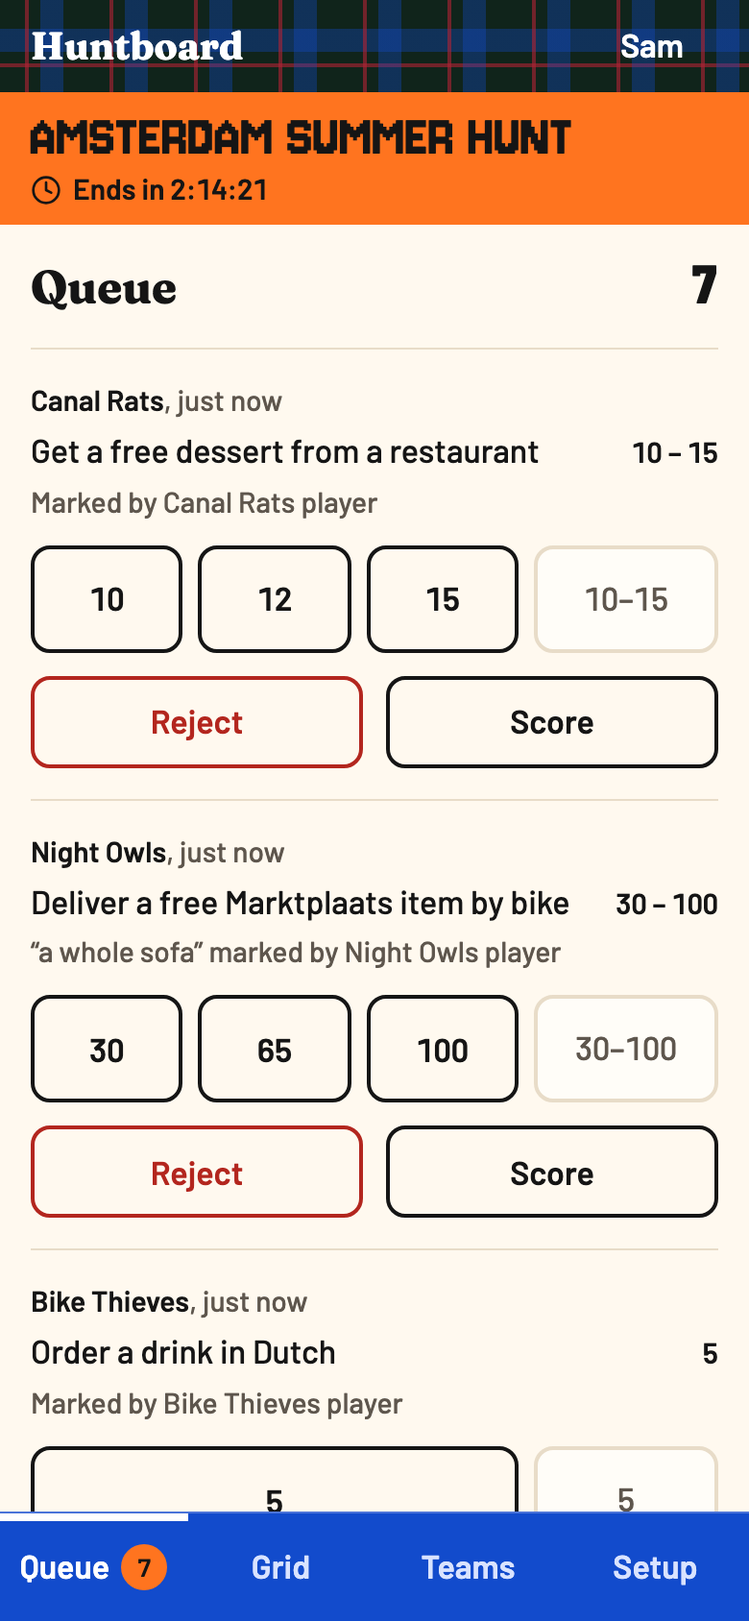
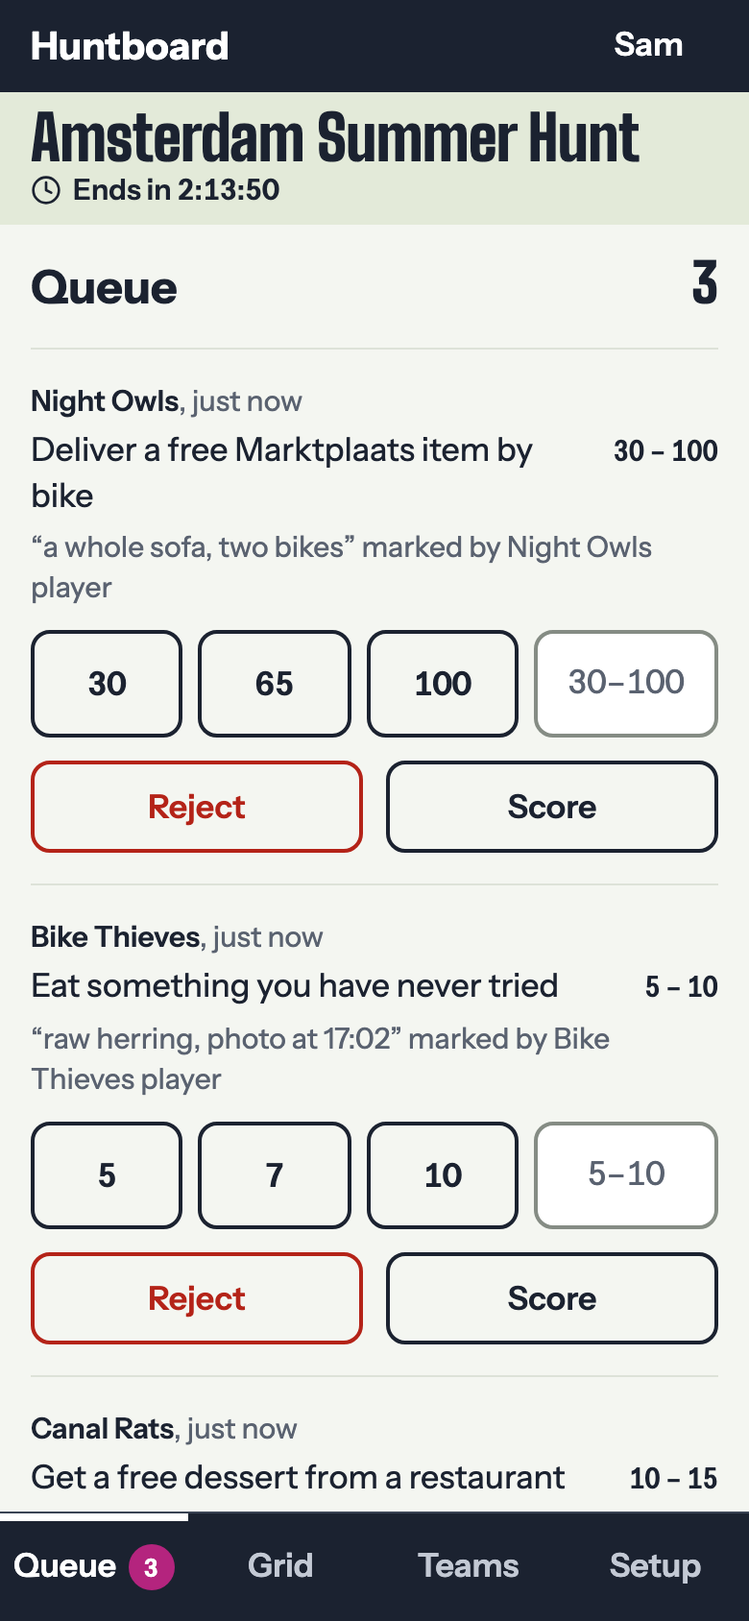
Bring the docs in line with the code and retake the README screenshots in the default Contour theme
README: Referrer-Policy same-origin and the other headers as sent, the email and testing modules in the code layout, the dev routes listed once, the load test's real checks, 40 players a day at half the limit, and three rehearsal games per run. DESIGN: Contour as the look outside a game, ranks at 28px, picture sizes stated once, and architecture and dev tooling moved to the README. Challenge format: how errors list, a lone # ending a section, and deletes taking media with them.

diff --git a/README.md b/README.md
@@ -8,9 +8,9 @@ Only game creators have accounts. Each team joins through its own secret link, s
 |---|---|
 | ![A team's page on a phone: its rank and total, and the challenge list with scored and pending claims](docs/screenshots/team.png) | ![The admin queue on a phone: pending claims with quick score, reject and custom points](docs/screenshots/admin-queue.png) |
 
-![The scoreboard on a big screen: four teams ranked by total points](docs/screenshots/scoreboard.png)
+![The scoreboard on a big screen: four teams ranked by total points, with a QR code to follow on a phone](docs/screenshots/scoreboard.png)
 
-> This ran a real game with 50 players fine, and should scale to thousands of concurrent players. To stay within the Cloudflare free tier, keep it to about 70 players a day in 5-hour games (see [Free-tier budget](#free-tier-budget)).
+> This ran a real game with 50 players fine, and should scale to thousands of concurrent players. To stay within the Cloudflare free tier with half the daily limit spare, keep it to about 40 players a day in 5-hour games (see [Free-tier budget](#free-tier-budget)).
 
 - [Design](DESIGN.md): visual and interaction rules for every screen
 - [Challenge format](docs/challenge-format.md): how organisers paste in their challenge list
@@ -21,14 +21,14 @@ Only game creators have accounts. Each team joins through its own secret link, s
 |---|---|---|
 | Creator | An account: their email address | Create games at `/new` and find them again on My games (`/games`). They land on the new game's admin page |
 | Admin | The admin link | Edit the game, challenges and teams, judge claims, add adjustments, record arrivals, rotate links |
-| Player | Their team's link | See all challenges, mark them done with an optional note and photo or video, undo a pending claim, rename the team |
-| Spectator | The scoreboard link | See team names, members and totals |
+| Player | Their team's link | See all challenges, mark them done with an optional note and photo or video, undo a pending claim, rename the team and set its picture |
+| Spectator | The scoreboard link | See team names, pictures, members and totals |
 
-A creator signs in with their email address. The email holds a link and a six-digit code: the link works in any browser, and the code works in the tab that asked for it, for phones that open links inside the mail app. The first sign-in for an address creates the account and asks only for a display name. A game made before accounts has no owner: a signed-in creator who opens its admin link adds it to their games from the Setup tab.
+A creator signs in with their email address. The email holds a link and a six-digit code: the link works in any browser, and the code works in the browser that asked for it, for phones that open links inside the mail app. The first sign-in for an address creates the account and asks only for a display name. A game made before accounts has no owner: a signed-in creator who opens its admin link adds it to their games from the Setup tab.
 
 Players and admins type a nickname on first visit. It is kept in the browser and only shows who marked or judged something. It is not an account.
 
-- **Links are the access model.** Each link holds a 128-bit random token. Anyone with a team link is on that team, and several judges share one admin link. A leaked link is rotated from Setup, and the old one stops working at once. Setup also shows each link as a QR code, and the big-screen scoreboard shows a QR code of its own link for spectators.
+- **Links are the access model.** Anyone with a team link is on that team, and several judges share one admin link. A leaked link is rotated from Setup, and the old one stops working at once. Setup also shows each link as a QR code, and the big-screen scoreboard shows a QR code of its own link for spectators.
 - **Claims take two steps.** A team marks a challenge done, and an admin scores it within its point range or rejects it with an optional reason. A team can undo a claim only while it is pending. An admin can also score a cell in the grid directly, for proof that arrives in person.
 - **A challenge scores at most once per team.** Rejected claims stay as history and the team can claim again. When two judges act on the same pending claim, the first wins and the second sees who judged it.
 - **Points are whole numbers inside the challenge's range.** Anything exceptional is an adjustment with a reason. A team's total is its scored claims plus adjustments, minus the late penalty.
@@ -36,17 +36,17 @@ Players and admins type a nickname on first visit. It is kept in the browser and
 - **Late penalty.** Whole minutes late, rounded down, times the penalty per minute, with no cap. A team that never arrives gets no automatic penalty; the admin adds an adjustment.
 - **Times are stored in UTC** and shown in each viewer's own time zone.
 - **Teams see every challenge but not each other's claims.** The scoreboard shows totals only.
-- **Proof is an optional photo or video on a claim.** The phone shrinks it when it can, uploads it to R2, and the judge sees it beside the claim. Proof can still go to the group chat or come in person, because a claim needs no media. The server checks each upload's size and type before the claim points at it. Each team may start 3 uploads for every challenge in the game, spent on any challenge, and 500 MB in all, and a game 3 GB, counting uploads that were never attached. Past a limit the team can still mark the challenge done without media. Media lives in its own R2 bucket under the game id and is deleted after the game: by "Delete all media" in Setup, by a reset, and by a 30-day rule on the bucket. Undoing a claim deletes its media; a rejected claim keeps it as history.
+- **Proof is an optional photo or video on a claim.** The phone shrinks it when it can, uploads it to R2, and the judge sees it beside the claim. Proof can still go to the group chat or come in person, because a claim needs no media. Each team may start 3 uploads for every challenge in the game, spent on any challenge, and 500 MB in all, and a game 3 GB, counting uploads that were never attached. Past a limit the team can still mark the challenge done without media. Media lives in its own R2 bucket under the game id and is deleted after the game: by "Delete all media" in Setup, by a reset, and by a 30-day rule on the bucket. Undoing a claim deletes its media; a rejected claim keeps it as history.
 - **Images.** Besides claim media, the app stores one image per game (an invitation, poster or map) and one picture per team, in R2.
 - **Themes live in code.** A game picks a registered theme in Setup; see [Themes](DESIGN.md#themes).
 
 ## Stack
 
-SvelteKit and TypeScript on Cloudflare Workers, D1 (SQLite) for data, R2 for images and claim media, pnpm. Tailwind and shadcn-svelte for components. Raw SQL through thin query modules. Everything fits the Cloudflare free tier.
+SvelteKit and TypeScript on Cloudflare Workers, D1 (SQLite) for data, R2 for images and claim media, pnpm. Tailwind and shadcn-svelte for components. Raw SQL through thin query modules. Everything but "Download all media" fits the Cloudflare free tier (see [Claim media](#claim-media)).
 
 ## Code layout
 
-Dependencies point one way: route, then action adapter or page builder, then HTTP guard, then use case, then database or storage, then domain. A module imports only from its own layer or the layers below it, and it may skip layers. Routes stay thin and hold no rules.
+Dependencies point one way: route, then action adapter or page builder, then HTTP guard, then use case, then database, storage or email, then domain. A module imports only from its own layer or the layers below it, and it may skip layers. Routes stay thin and hold no rules.
 
 Use cases, queries and the image store take the database or bucket as an argument. They never import SvelteKit or `cloudflare:workers`. Use cases read `FormData` themselves, because it is a web standard type and not a request.
 
@@ -65,9 +65,10 @@ Use cases, queries and the image store take the database or bucket as an argumen
 - `pages/`: page load builders.
 - `http/`: request guards, security headers, the D1 usage meter for the load test, the admin and team link guards that answer 404, and the session cookie, and the Resend sender.
 - `use-cases/`: what each form action does, tested without HTTP, and the form field readers they share.
-- `db/`: D1 queries, including the team link lookup.
+- `db/`: D1 queries, including the team link lookup. `db/testing/` holds the in-memory D1 the query tests run on, and its seed data.
 - `storage/`: the R2 image and media stores. They also build the responses for image and media requests, byte ranges and the media zip included. `media-upload.ts` signs uploads to R2, `dev-media-upload.ts` stands in for R2 under `pnpm dev`, and `r2-s3.ts` holds the account id and the R2 S3 origin that the CSP in `vite.config.ts` also reads.
-- `testing/`: an in-memory R2 bucket for tests, with `head` and ranged `get`.
+- `email/`: the sign-in email, HTML and plain text. Email clients ignore CSS variables, so it repeats the Contour colours: change them there with the theme.
+- `testing/`: an in-memory R2 bucket, with `head` and ranged `get`, and an in-memory cookie jar for tests.
 
 The bottom layer is `domain/`, `format/` and the theme registry in `themes/index.ts`. These import nothing from `src/lib/server`. Browser code imports only types from `src/lib/server`.
 
@@ -90,18 +91,19 @@ pnpm dev
 
 Without `RESEND_API_KEY` in `.env.dev`, the dev server sends no sign-in email and shows its link and code on the sign-in page. With the key, it sends real email (see [Sign-in email](#sign-in-email)). A deployment without the key refuses to sign anyone in.
 
-`/dev/sign-in?name=<name>&next=<path>` signs in as a test account with that name, with no credential. The rehearsal uses it. It answers 404 outside `pnpm dev`: production builds compile it out, so no setting can turn it on in a deployment.
+`pnpm dev` adds routes under `/dev/`, which a deployment never serves (see [Security](#security)):
 
-`/dev/design` shows every component in every theme: `/dev/design?theme=<id>&mode=dark`. It answers 404 outside `pnpm dev`.
+- `/dev/sign-in?name=<name>&next=<path>` signs in as a test account with that name, with no credential. The rehearsal uses it.
+- `/dev/design?theme=<id>&mode=dark` shows every component in any theme and mode it supports.
+- `/dev/email` shows the sign-in email as its HTML part renders, with an example link and code.
+- `/dev/media/...` takes claim media uploads while `R2_ACCESS_KEY_ID` and `R2_SECRET_ACCESS_KEY` are blank, since `pnpm dev` has no R2 S3 endpoint. It stores them in the local `MEDIA` bucket.
 
-`/dev/email` shows the sign-in email as its HTML part renders, with an example link and code. It answers 404 outside `pnpm dev`.
-
-`pnpm dev` has no R2 S3 endpoint for claim media. While `R2_ACCESS_KEY_ID` and `R2_SECRET_ACCESS_KEY` are blank, it signs uploads to `/dev/media/...` instead, which stores them in the local `MEDIA` bucket and also answers 404 outside `pnpm dev`. A deployment with the secrets blank refuses uploads.
+A theme's `touch-icon.png` and `share.png` are rendered, not drawn: run `node scripts/theme-images.ts` after changing a theme's colours or its card in that script.
 
 ## Testing
 
 ```sh
-pnpm test    # Vitest: domain, use cases, page builders and D1 queries
+pnpm test    # Vitest: every *.test.ts under src/, in Node
 pnpm check   # svelte-check and the load test's type check
 pnpm lint    # Prettier and ESLint
 ```
@@ -123,17 +125,17 @@ A deployment has no test sign-in. To rehearse against one, sign in there in a br
 HUNTBOARD_URL=https://huntboard.example.com HUNTBOARD_SESSION=... pnpm rehearsal
 ```
 
-Each run creates a new game named `Rehearsal ...`. Delete them before a real event:
+Each run creates three games named `Rehearsal ...`, and one account can create 10 games a day. Delete them before a real event:
 
 ```sh
 pnpm exec wrangler d1 execute huntboard --remote --command "DELETE FROM game WHERE name LIKE 'Rehearsal %'"
 ```
 
-Their images and claim media stay in R2 under `<game id>/`, in the images and media buckets. Reset a rehearsal game from its Setup tab before deleting it to remove them too. The 30-day rule on the media bucket catches any media left behind.
+Their images and claim media stay in R2 under `<game id>/`, in the images and media buckets. Reset a rehearsal game from its Setup tab before deleting it to remove them too.
 
 ### Load test
 
-`pnpm loadtest` plays one full game over HTTP against a local production build: 7 teams of 6 players, 3 judges and a big screen over 5 hours, with an opening rush and a finale where 40 phones load the scoreboard. It reports Worker requests and D1 rows read per request and per game, compares them with the free plan's daily limits, and checks that the final scoreboard matches the points the judges gave.
+`pnpm loadtest` plays one full game over HTTP against a local production build: 7 teams of 6 players, 3 judges and a big screen over 5 hours, with an opening rush and a finale where 40 phones load the scoreboard. It reports Worker requests and D1 rows read and written per request and per game, and compares them with half the free plan's daily limits. It also fails on a request that makes more than 50 D1 calls or a p95 latency over 1 second, and checks that the final scoreboard matches the points the judges gave.
 
 ```sh
 pnpm loadtest              # 5 game hours at 30x: about 12 minutes
@@ -144,11 +146,11 @@ It serves the build with `wrangler dev` on port 4174 and keeps its own D1 state 
 
 ## Free-tier budget
 
-Pages poll: clients reload their data every 60 seconds, pause while the tab is hidden, and refresh at once on focus and after their own actions. `POLL_INTERVAL_MS` in `src/lib/client/live-updates.ts` holds the interval. Before each poll the client fetches `/reachable.txt`, a static file that never runs the Worker. When it fails, the poll is skipped and the page shows an offline notice instead of an error page. When the page data request fails anyway, for a server error, the zone's rate limit or a web page where the data should be, or takes over 10 seconds, the poll is dropped: the page keeps what it showed and its open sheets, says it did not update, and the next poll tries again.
+Pages poll: clients reload their data every 60 seconds, pause while the tab is hidden, and refresh at once on focus and after their own actions. `POLL_INTERVAL_MS` in `src/lib/client/live-updates.ts` holds the interval. Before each poll the client fetches `/reachable.txt`, a static file that never runs the Worker. When it fails, the poll is skipped. When the page data request fails anyway, for a server error, the zone's rate limit or a web page where the data should be, or takes over 10 seconds, the poll is dropped and the next poll tries again. In both cases the page keeps what it showed (see [Offline and errors](DESIGN.md#offline-and-errors)).
 
 D1 rows read decide the interval, not Worker requests. The free plan allows 5 million rows read and 100,000 Worker requests per day, reset at 00:00 UTC. Past either limit every request fails until the reset, which ends a running game, so the budget keeps about half the rows limit spare.
 
-The model game: 40 players in 7 teams, 3 admins, one big screen, 5 hours. Phones lock and players switch apps, so a team page is visible about one minute in five. About 180 claims and 180 judgements.
+The model game, which the load test plays: 42 players in 7 teams, 3 admins, one big screen, 5 hours. Phones lock and players switch apps, so a team page is visible about one minute in five. About 180 claims and 180 judgements.
 
 | Interval | Worker requests | D1 rows read | Share of D1 limit |
 |---|---|---|---|
@@ -246,7 +248,7 @@ A game of about 180 claims stores about 1 GB of media. It is deleted after the g
 - **Accounts.** `/new` and My games need a session. A session is a 128-bit random token in an `HttpOnly`, `SameSite=Lax` cookie, `Secure` outside localhost. The database stores only its SHA-256 hash. It lasts 30 days, and a session used in its second half is renewed. Sign-out deletes it. Owning a game only lists it on My games; access to a game is still its links.
 - **Sign-in.** An email holds a 128-bit link token and a six-digit code. The database stores only their SHA-256 hashes, the code's salted with its request ID. Both expire after 15 minutes and sign in once. The link opens a page with a button, because mail scanners open links and must not use them up. The code works only with a request ID in the asking browser's `HttpOnly` cookie, and five wrong codes end the request. The cookie keeps the browser's live requests for one address, because emails arrive late and a user may type the code from an earlier one. A wrong code spends an attempt on each of them. Each address can have at most three unused sign-in emails from the last 15 minutes; a used one stops counting, since only the inbox owner can use it. New and existing addresses get the same email, so the form does not reveal who has an account. There are no passwords, because hashing them does not fit the Workers free plan's 10 ms CPU limit.
 - **Test sign-in.** `/dev/sign-in` exists only in `pnpm dev`. Production builds compile it out. Outside `pnpm dev`, every `/dev/` path answers 404 to every method, so none shows that it exists.
-- **Headers.** SvelteKit sets an enforced CSP with per-request script nonces. `src/hooks.server.ts` adds `nosniff`, `X-Frame-Options: DENY`, `Referrer-Policy: no-referrer`, `Permissions-Policy`, HSTS and `X-Robots-Tag: noindex` to every Worker response, and `Cache-Control: no-store` to secret-link pages. `_headers` applies the static ones to assets. `robots.txt` disallows everything.
+- **Headers.** SvelteKit sets an enforced CSP with per-request script nonces. `securityHeaders` in `src/lib/server/http/request-guard.ts` adds `nosniff`, `X-Frame-Options: DENY`, `Referrer-Policy: same-origin`, `Cross-Origin-Opener-Policy: same-origin`, `Permissions-Policy`, HSTS over HTTPS and `X-Robots-Tag: noindex, nofollow` to every routed response, and `Cache-Control: no-store` to secret-link pages, sign-in, My games and `/new`. `same-origin` and not `no-referrer`, because with `no-referrer` Chrome sends `Origin: null` on a plain form post and SvelteKit's CSRF check refuses it. `_headers` applies the static ones to assets. `robots.txt` disallows everything.
 - **Requests.** Plain HTTP redirects to HTTPS. Bodies without `Content-Length` get 411 and bodies over 2 MiB get 413, before any parsing. Uploaded images are checked for size, declared type and magic bytes.
 - **Claim media.** Phones upload straight to R2, never through the Worker. The team action `mediaUpload` checks the game window, the declared type and the size limit, then records the key for the team in `media_upload` and signs one PUT URL for 15 minutes. That record enforces the per-team and per-game limits, so a team link cannot fill the bucket, and "Delete all media" clears it with the media. It covers one new random key under the game id, and its signature covers the content type and length, so R2 refuses any other file. The R2 API token behind it can only read and write the media bucket. Marking done with media checks the object again in the bucket: the key was signed for this team, the size is within the limit, the stored type matches the key, and the first bytes are a JPEG, WebP, MP4, QuickTime or WebM file. A failed check stores no claim.
 - **Media keys are secrets.** `/media/<game id>/claims/<file>` serves an object without reading D1, like `/images/`, so the 128-bit random name is the only guard. Only the claiming team and the admins receive it.

diff --git a/DESIGN.md b/DESIGN.md
@@ -8,7 +8,7 @@ Orienteering marks each checkpoint with a square flag split diagonally into oran
 
 The palette is signal orange on a cool white, with deep navy for text.
 
-This direction is the theme `flag`. A game can pick another theme for all its pages; see [Themes](#themes). The rest of this document describes `flag`.
+This direction is the theme `flag`, the base layer every other theme falls back to. New games and pages without a game wear [Contour](#contour), and a game can pick any theme for all its pages; see [Themes](#themes). The rest of this document describes `flag` unless a theme or layout says otherwise.
 
 ## Color
 
@@ -68,7 +68,8 @@ One family: **Archivo** (variable, Google Fonts), using its width axis as the ac
 
 | Role | Setting | Size (phone) |
 |---|---|---|
-| Score totals, ranks (`type-score`, `type-rank`) | Archivo Expanded (`wdth` 125), weight 800, tabular | 40px, scaling with `clamp()` up to 8vw on the big screen |
+| Score totals (`type-score`) | Archivo Expanded (`wdth` 125), weight 800, tabular | 40px, scaling on the big screen (see [Scoreboard](#scoreboard)) |
+| Ranks (`type-rank`) | Archivo Expanded, weight 800, tabular | 28px |
 | Screen title | Archivo Expanded, weight 700 | 24px |
 | Section heading | Archivo, weight 700 | 17px |
 | Body, challenge titles | Archivo, weight 450 | 17px, line-height 1.4 |
@@ -161,9 +162,8 @@ The grid has team names as columns and a sticky first column of challenge titles
 
 - The grid is the one admin screen wider than the content column. It scrolls inside its own box, so the header row and the challenge column both stay in view. The box ends above the tab bar. On a short landscape screen it takes most of the height and the page scrolls the header away. On a wide screen the team columns grow to fit their names.
 - The sheet says what a tap does in each state: score an open or rejected cell without a team claim, judge a pending one, fix or reject a scored one.
-- A conflict shows under the refreshed state of the cell, the same way the team sheet does.
 - The sheet shows the claim's photo or video under the claim's details, the same way the queue does.
-- A tap acts on the state the sheet showed when it opened or after its last answer. If a poll changed the cell in between, the tap gets the conflict message instead of quietly doing something else.
+- A tap acts on the state the sheet showed when it opened or after its last answer. If a poll changed the cell in between, the tap gets the conflict message under the refreshed state of the cell instead of quietly doing something else.
 
 The Teams tab lists teams in their setup order, not by rank, so a row does not move while the judge taps it. Here and in the Setup team list, names and members each take up to two lines, so teams that share a long prefix still read apart at 360px. Each team shows its rank and total, then the breakdown: scored claims, adjustments, and the late penalty with its minutes.
 
@@ -195,24 +195,23 @@ These pages belong to no game, so they wear the default theme.
 - After sending, the page becomes "Check your email": the address, a "Code" field and "Sign in", then "Use a different email" as a ghost button. A reload keeps this step while the code still works.
 - A new address learns it is new only after a right code or from the link's page. Then "Your name" appears above the button, and the link's button reads "Create account".
 - The link opens a page that names the address and waits for "Sign in". An expired link says so and offers "Ask for a new email".
-- The dev server sends no email. It shows the link and code in a dashed box under the address instead.
-- The email wears the default theme, light and dark, in a 560px card: the app bar with "Huntboard", the banner with "Sign in" in `--font-banner` after a magenta control ring and the address under it, a "Sign in" button in `--action`, then the code in `--font-score` in a bordered box. How long both work and the link spelled out close it in `--muted`. A plain-text part carries the same words. Email clients ignore CSS variables, so `src/lib/server/email/sign-in-email.ts` repeats the Contour colours: change them there with the theme. `/dev/email` previews it.
+- Without an email key, the dev server shows the link and code in a dashed box under the address.
+- The email wears Contour, light and dark, in a 560px card: the app bar with "Huntboard", the banner with "Sign in" in `--font-banner` after a magenta control ring and the address under it, a "Sign in" button in `--action`, then the code in `--font-score` in a bordered box. How long both work and the link spelled out close it in `--muted`. A plain-text part carries the same words.
 - My games: "New game" as the primary button, then the games, newest first, each opening its admin link. "Sign out" comes last, as a ghost button.
 - Sign-in errors show in place, above the button they are about.
 
 ### Scoreboard
 
-A ranked list. Rank and total in display type, the total in `--score`, team name in body weight. On screens wider than 1024px the same page becomes the big-screen view: totals scale up, the list centres vertically, and a QR code of the scoreboard link sits to the right of the list.
+A ranked list. Rank and total in display type, the total in `--score`, team name in body weight on a phone and semibold on the big screen. On screens wider than 1024px the same page becomes the big-screen view: totals scale up, the list centres vertically, and a QR code of the scoreboard link sits to the right of the list.
 
-- The QR code is `min(26dvh, 18vw)` wide, with "Scan to follow on your phone" under it in `--muted`. It encodes only the scoreboard link, built from the page's own token. Phones already have the link, so they never show it.
-
+- The QR code is `min(26dvh, 18vw)` wide, with "Scan to follow on your phone" under it in `--muted`. Phones already have the link, so they never show it.
 - Under the game name, one status line: "Starts in 0:42:10", "Ends in 1:42:10" or "Ended at 21:00". With a day or more to go, the days come first: "Starts in 3 days 1:42:10". The scoreboard keeps updating after the end, because judging goes on at the meeting point.
 - Tied teams show the same rank and keep their setup order.
 - On the big screen every size follows one total size: 55% of the viewport height shared by the teams, counting at least 3, between 40px and 8vw. The 8vw cap keeps a name in view beside a four-digit total on a narrow or portrait screen, and the 3-team floor stops one or two teams from filling the screen with digits. Ranks are 0.6 of it, names 0.45, the title 0.45, the status line and the empty message 0.25, and members 0.3 but never under 2% of the screen height, so 4 teams and 7 teams both fill a 1080px screen. Names keep one line there.
 - On a phone a long team name wraps to two lines rather than shrinking to a few characters beside a large total.
 - With no teams yet: "No teams yet. They show up here once the organiser adds them."
 - With a game image, the event header from the team page sits under the status line. On the big screen its thumbnail is 0.7 of the total size and its label 0.25, so it never pushes the list off a 800px screen.
-- Team pictures sit between rank and name: 40px on a phone, 0.9 of the total size on the big screen.
+- Team pictures sit between rank and name.
 
 ## Components
 
@@ -227,17 +226,17 @@ Built on shadcn-svelte where it saves time (Button, Input, Label, Sheet), restyl
 
 ## Themes
 
-The admin picks a theme for the game in Setup. It changes every page of that game: the team page, the scoreboard and the admin pages, so a `flag` game keeps a `flag` admin. `DEFAULT_THEME`, [Contour](#contour), is the theme a game made at `/new` starts in, and the one pages without a game wear: the home page, `/new`, error pages. An id that is no longer registered also reads as `DEFAULT_THEME`.
+The admin picks a theme for the game in Setup. It changes every page of that game: the team page, the scoreboard and the admin pages, so a `flag` game keeps a `flag` admin. `DEFAULT_THEME`, [Contour](#contour), is the theme a game made at `/new` starts in, and the one every page outside a game wears: the home page, `/new`, sign-in, My games and error pages.
 
 A theme is two things:
 
 - An entry in `src/lib/themes/index.ts`: id, name, the modes it supports with the browser chrome colour of each (the colour at the top of the page: `--paper` in the `plain` layout, `--app-bar-base` in the `event` layout), the font stylesheets it loads, its [layout](#layouts), and optionally a `wordmark`: an image and its alt text that the event app bar shows in place of "Huntboard".
 - A CSS file next to it, imported by `app.css`, that sets tokens on `:root[data-game-theme='<id>']`. `flag` sits on plain `:root`, so a token a theme leaves out falls back to `flag`.
-- Images in `static/themes/<id>/`: `icon.svg` for the browser tab, and `touch-icon.png` and `share.png`, the 1200 × 630 link preview that chats like WhatsApp show. Draw `icon.svg` by hand. `node scripts/theme-images.ts` renders the two PNGs, the preview from a card in that script. A theme's wordmark lives here too.
+- Images in `static/themes/<id>/`: `icon.svg` for the browser tab, and `touch-icon.png` and `share.png`, the 1200 × 630 link preview that chats like WhatsApp show. Draw `icon.svg` by hand. The two PNGs are rendered by a script (see the [README](README.md#local-development)). A theme's wordmark lives here too.
 
 The server writes `data-game-theme` on `<html>`, so the first paint and the sheets portalled to `<body>` already wear the theme. A stored id that is no longer registered shows `DEFAULT_THEME`.
 
-A theme supports light, dark or both. With one mode, the server also writes `data-theme` and that mode wins over the phone setting. With both, it follows the phone, and the dark set is declared once inside `@variant dark`. `/dev/design?theme=<id>&mode=dark` previews any theme in any mode it supports.
+A theme supports light, dark or both. With one mode, the server also writes `data-theme` and that mode wins over the phone setting. With both, it follows the phone, and the dark set is declared once inside `@variant dark`. `/dev/design` previews any theme in any mode it supports.
 
 ### Token roles
 
@@ -282,10 +281,10 @@ Inside the strip and the admin tab bar, the strip roles stand in for `--surface`
 A theme's registry entry names its layout. Structure changes only through it; the theme CSS changes only tokens. Components read it with `pageLayout()` from `src/lib/themes/page-layout.ts`. Pages without a game get the layout of `DEFAULT_THEME`.
 
 - `plain`: the layout described above. `flag` uses it.
-- `event`: a slim app bar ("Huntboard" and the nickname button) and an event banner replace the game name line and the game image header. The wordmark links to the home page, except on the home page itself. The banner shows the game name in `--font-banner`, large enough to fill the banner (17vw up to 80px, 40px past 16 characters and 30px past 40 so long names wrap into a few lines), on at most three lines with the rest cut by an ellipsis and words hyphenated in the page language, the start day in the viewer's locale once the game has a start time, the status line, and with a game image its thumbnail and "View <label>", which open the same sheet as the event header. Only the button is a control for keyboards and screen readers; the thumbnail is a larger target for thumbs. On the team page the strip shows the rank, a divider, the team name in 20px `--font-display` on up to two lines with the countdown under it, the total and the chevron; members show in the expanded list. The countdown is hidden from the strip button's name, which would otherwise change every second, and repeated outside it for screen readers. The focus ring sits inside the strip. Section headings are 26px `--font-display` with `--section-ornament` before and a 2px `--section-rule` border to the right edge. Rows lose the top border and add the description clamped to two lines, a 15px "points" unit under a 17px range with thin spaces around the dash, and a chevron. The scoreboard puts a "Leaderboard" heading over a 2px `--score` rule, team names in semibold, team pictures at 48px, and a 15px "points" under each total, which the big screen scales like the members line. On the big screen the app bar and banner sizes follow the screen height instead of the total size, and the banner puts the game name in one wide row of at most two lines, its last word included, with the details beside it, and the teams share 34% of the height instead of 55%, so 4 to 7 teams still fit 1280 × 800 and 1920 × 1080.
+- `event`: a slim app bar (the wordmark, and the nickname button on team and admin pages) and an event banner replace the game name line and the game image header. The wordmark links to the home page, except on the home page itself. The banner shows the game name in `--font-banner`, large enough to fill the banner (`--banner-title-size`, by default 17vw up to 80px, 40px past 16 characters and 30px past 40 so long names wrap into a few lines), on at most three lines with the rest cut by an ellipsis and words hyphenated in the page language, the start day in the viewer's locale once the game has a start time, the status line, and with a game image its thumbnail and "View <label>", which open the same sheet as the event header. Only the button is a control for keyboards and screen readers; the thumbnail is a larger target for thumbs. On the team page the strip shows the rank, a divider, the team name in 20px `--font-display` on up to two lines with the countdown under it, the total and the chevron; members show in the expanded list. The countdown is hidden from the strip button's name, which would otherwise change every second, and repeated outside it for screen readers. The focus ring sits inside the strip. Section headings take `--section-heading-font` with `--section-ornament` and a `--section-rule` border to the right edge. Rows lose the top border and add the description clamped to two lines, a 15px "points" unit under a 17px range with thin spaces around the dash, and a chevron. The scoreboard puts a "Leaderboard" heading over a 2px `--score` rule, team names in semibold, team pictures at 48px, and a 15px "points" under each total, which the big screen scales like the members line. On the big screen the app bar and banner sizes follow the screen height instead of the total size, and the banner puts the game name in one wide row of at most two lines, its last word included, with the details beside it, and the teams share 34% of the height instead of 55%, so 4 to 7 teams still fit 1280 × 800 and 1920 × 1080.
   - Admin pages are worked fast on a phone, so they keep their density and touch sizes and skip the big banner. Under the app bar a one-row banner shows the game name in 32px `--font-banner`, on at most two lines, and the status line. Both banners keep the full name in the title attribute and the text, so screen readers read all of it. The tab bar marks the current tab with a 4px bar in the strip's text colour along its top, and its focus ring sits inside the bar.
-  - `/new` has no game, so its banner holds the page title in `--font-banner` and one line under it, with `--banner-art` beside. Error pages add only the app bar.
-  - The home page is the landing page for organisers, built from the theme's tokens in a 1120px column: a hero in the banner colours with the title in `--font-banner` and an example leaderboard over contour lines, where one claim is scored once on load and its team climbs to first; "How a hunt runs" as an orienteering course in `--marker` (start triangle, numbered control circles, finish double circle, joined by the course line, down on a phone and across from 1024px); four facts; and a closing band in the app bar colours. "Create a hunt" goes to `/new`, which asks for sign-in first. With reduced motion the claim is scored with no movement.
+  - Pages without a game (`/new`, sign-in and My games) put the page title in the banner in `--font-banner` with one line under it, and `--banner-art` beside. Error pages add only the app bar.
+  - The home page is the landing page for organisers, built from the theme's tokens in a 1120px column: an app bar with "Sign in"; a hero in the banner colours with the title in `--font-banner` and an example leaderboard over contour lines, where one claim is scored once on load and its team climbs to first; "How a hunt runs" as an orienteering course in `--marker` (start triangle, numbered control circles, finish double circle, joined by the course line, down on a phone and across from 1024px); four facts; and a closing band in the app bar colours. "Create a hunt" goes to `/new`, which asks for sign-in first, and "Open my hunts" beside it goes to My games. With reduced motion the claim is scored with no movement.
 
 ### What a theme may change
 
@@ -373,7 +372,7 @@ Fonts: Georgia for `--font-display` and `--font-banner`, so the game name, ranks
 A team picture is a circle, so it never reads as a marker. Without a picture a team shows its initial in `--muted` on `--paper`, inside a `--line` border.
 
 - Pictures and initials appear only once at least one team in the game has a picture. A game without pictures looks exactly as before.
-- Sizes are fixed per place, so a loading picture never changes a row height or the reorder animation: 40px in the strip, 32px in the expanded list and the Setup team list, 40px on the scoreboard.
+- Sizes are fixed per place, so a loading picture never changes a row height or the reorder animation: 40px in the strip, 32px in the expanded list and the Setup team list, 40px on the scoreboard (48px in the `event` layout) and 0.9 of the total size on the big screen.
 - The picture is decorative: the team name is always beside it, so it has empty alt text.
 - The game image label names the image for everyone: it is the event header text, the sheet title and the alt text. Without a label it reads "Game image".
 - Images are shrunk in the browser before upload: team pictures to a 256px square cropped from the middle, the game image to 1600px on its long edge. A phone never uploads a full-size photo.
@@ -382,7 +381,6 @@ A team picture is a circle, so it never reads as a marker. Without a picture a t
 
 - Photos are shrunk in the browser to 1600px on their long edge, like the game image, and stay under 512 KB.
 - Videos are re-encoded in the browser to 720p H.264 at about 2 Mbps, at most 60 seconds long. A video that already fits that budget goes as it is. So does an MP4, MOV or WebM up to 80 MB that re-encoding would not make smaller. A phone that cannot re-encode sends the original MP4, MOV or WebM, up to 80 MB.
-- The phone uploads straight to storage, never through the app, so a slow upload never blocks other requests.
 
 ## Motion
 
@@ -394,8 +392,8 @@ Responses to the user's own actions are welcome and short (under 200ms): sheets 
 
 - Plain verbs that name what happens: "Mark done", "Undo claim", "Score", "Reject", "Record arrival". The toast repeats the verb: "Marked done", "Scored 15".
 - Errors say what happened and what to do. "The game ended at 21:00. Claims are closed." Not "Something went wrong".
-- Empty states invite the next action. Empty queue: "Nothing to judge. New claims show up here."
-- Conflicts name the person: "Sam already scored this: 15 points."
+- Empty states invite the next action, like the empty queue in [Admin](#admin).
+- Conflicts name the person who acted first, like a judged claim in the queue.
 - Times show in the viewer's time zone, in 24-hour format when the browser locale uses it.
 
 ### Offline and errors

diff --git a/docs/challenge-format.md b/docs/challenge-format.md
@@ -24,21 +24,21 @@ Organisers write their challenge list wherever they like (notes app, WhatsApp, a
 - **A challenge** is a line starting with `- `. Other list markers (`*`, `+`, `•`, `1.`, `1)`) are an error, unless they are indented under a challenge as part of its description. So is a line that ends in points but starts with a dash and no space (`-Run [5]`) or with an en or em dash (`– Run [5]`).
 - **Points** go at the end of the line in square brackets, as whole numbers up to 100000: `[10]` for a fixed score or `[5-20]` for a range. Spaces inside the brackets and an en or em dash (`[5 – 20]` or `[5—20]`, which phones often type) are fine. Other forms, like `(10)` or `10 pts`, are an error.
 - **A description** is any indented or plain line directly under a challenge, up to the next list item or heading.
-- **A section** is a line starting with `# `. Challenges below it belong to that section. Sections are optional. `##` and deeper headings are an error.
+- **A section** is a line starting with `# `. Challenges below it belong to that section. A `#` alone ends the section. Sections are optional. `##` and deeper headings are an error.
 - Blank lines are ignored.
 
 ## Preview and errors
 
-Before saving, the admin sees a table of what was parsed: section, title, points, description. Lines that could not be parsed are highlighted with the reason (for example "no points found", or "min is greater than max"). Nothing is saved until the admin confirms.
+Before saving, the admin sees a table of what was parsed: section, title, points, description. Lines that could not be read are listed above it with their line number, the line as typed and the reason (for example "no points found", or "min is greater than max"). Import stays off until every line reads, and nothing is saved until the admin confirms.
 
 ## Re-importing
 
 Pasting again replaces the challenge list. Challenges are matched by title, ignoring case, surrounding spaces and repeated spaces.
 
-- **Matched**: title, section, description, range and position are updated, so a title pasted in other case or spacing replaces the stored one. Scored claims are clamped to the new range. The preview marks a matched challenge "Updated" only when its title, section, description or points change, and says when the order changes.
+- **Matched**: title, section, description, range and position are updated, so a title pasted in other case or spacing replaces the stored one. Scored claims are clamped to the new range, and the preview lists the scores that move. It marks a matched challenge "Updated" only when its title, section, description or points change, and says when the order changes.
 - **New**: added.
 - **Missing, without claims**: deleted.
-- **Missing, with claims**: the preview lists them with their claim count. Confirming deletes them and their claims.
+- **Missing, with claims**: the preview lists them with their claim count. Confirming deletes them, their claims and the claims' photos and videos.
 
 To fix a typo in the title of a challenge that already has claims, edit that challenge in place instead of re-importing.
 
